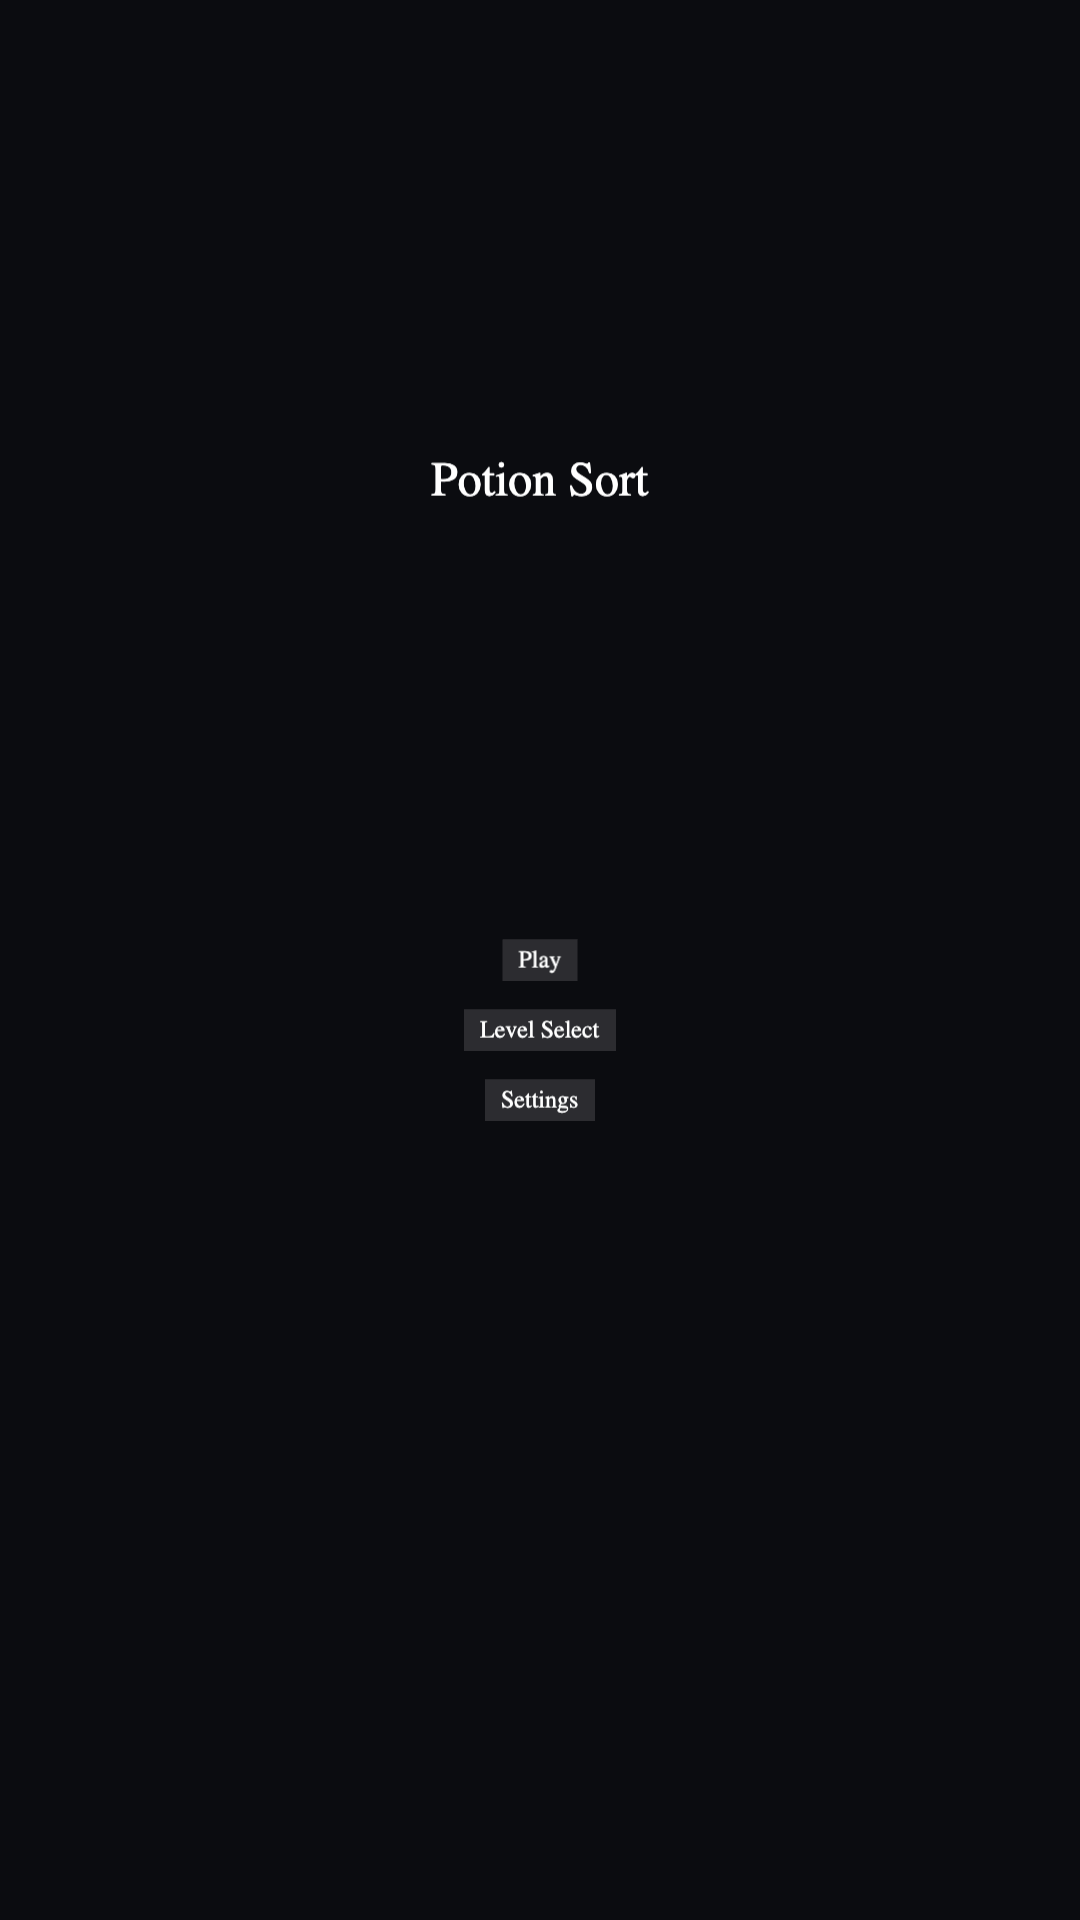
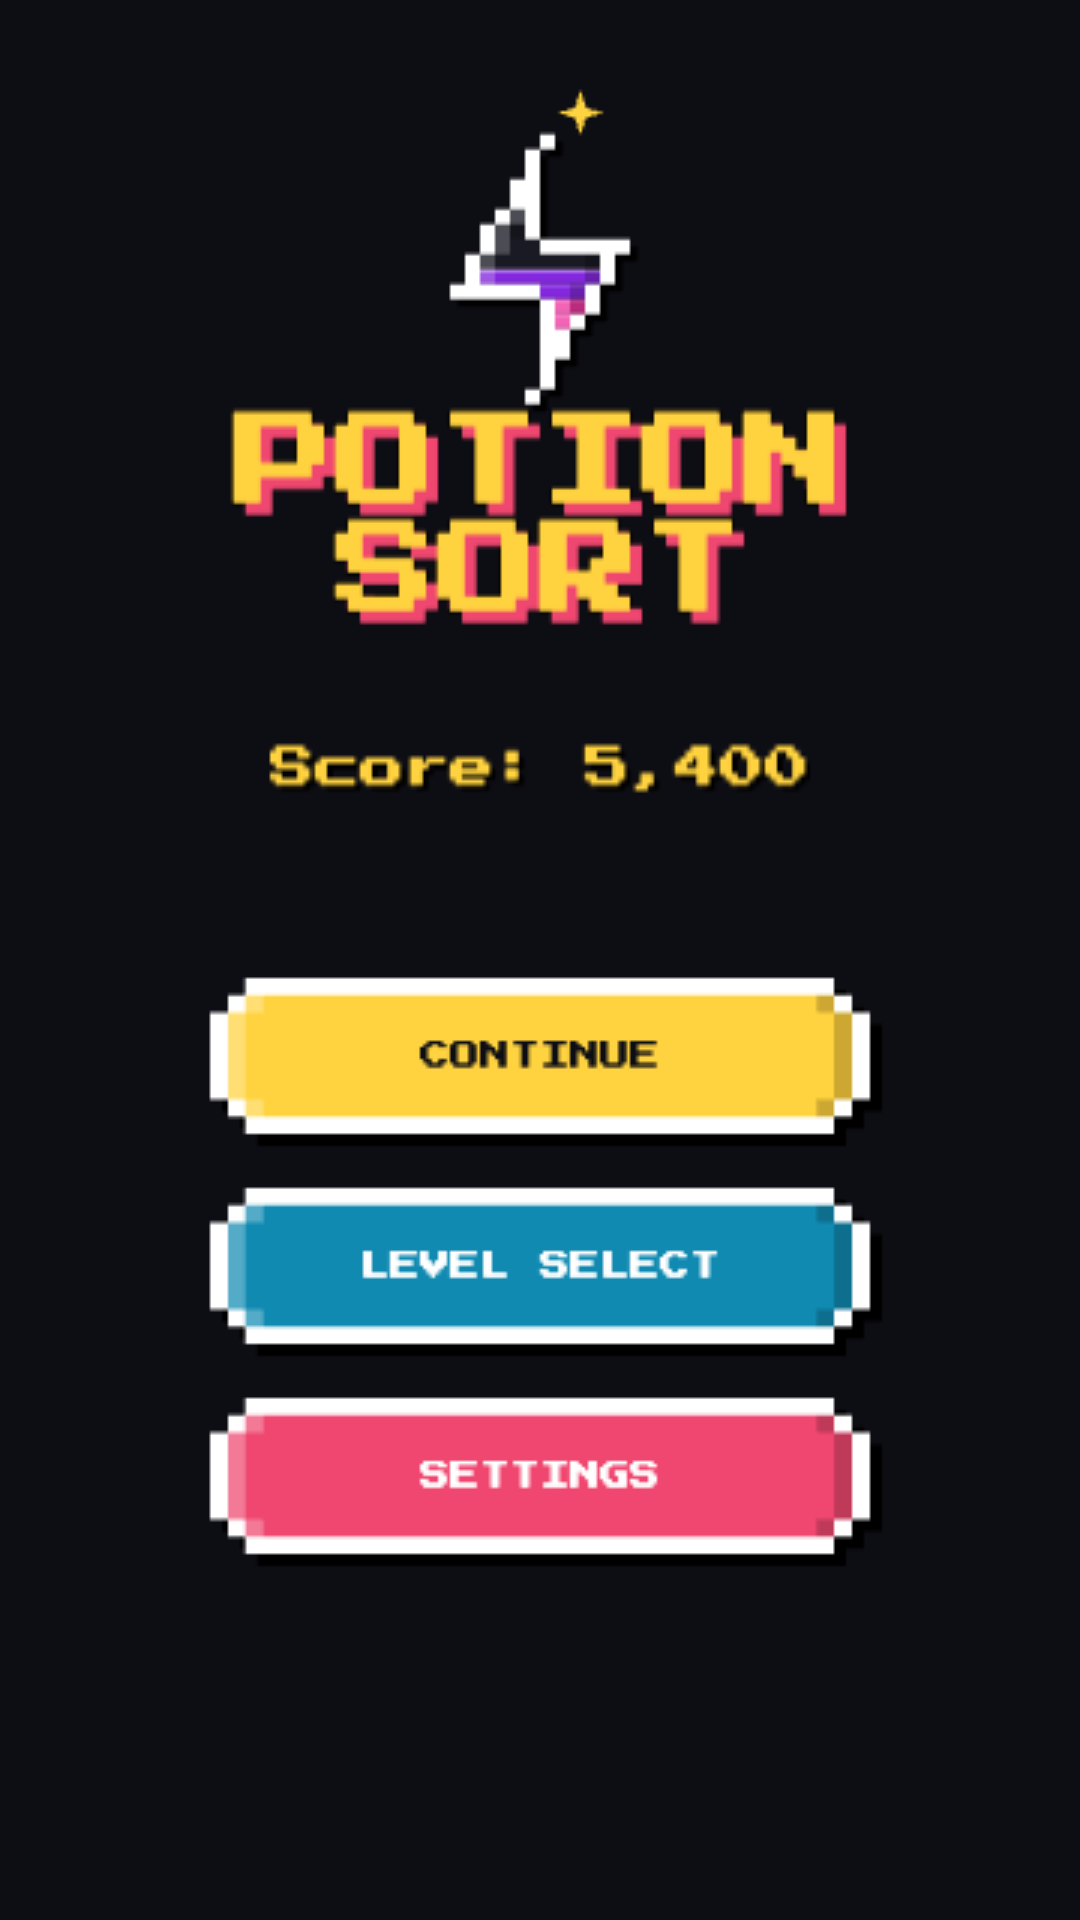
Recapture Play Store screenshots against current UI
The committed set predated almost all of this session's work (icon
buttons, HARD/ICE/LOCK badges, onboarding tooltips, settings popup,
score, endless mode) and the checklist already flagged them as
placeholder-only.

Recaptured all 6 at 1080x1920 from the actual running game via
Playwright (360x640 viewport, 3x device scale):
- Menu: now shows the lifetime score and "Continue".
- Level select: a page chosen to show hard/frozen/locked badges and
  star ratings together, not just one at a time.
- Mid-pour, flask-complete, win: used a real solver-computed move
  sequence (same throwaway-test pattern as the win-screen
  verification in project_scoring_and_retention) replayed as actual
  taps, timed to land inside the pour tween / sparkle burst / confetti
  window respectively - not staged mockups. Had to account for
  display-order reshuffling after each seal (flasks move to the
  front of the grid once solved) to keep tapping the right on-screen
  position for moves 11-12.

diff --git a/store/screenshots-checklist.md b/store/screenshots-checklist.md
@@ -7,31 +7,38 @@ reflects this repo as of Milestone 8.
 | --- | --- | --- | --- |
 | App icon | 512×512 PNG, 32-bit with alpha, ≤1024 KB | Required | ⬜ Not made — `assets/icon.png` is the in-app adaptive icon source (1024×1024), not yet resized/exported for the Play Store listing field |
 | Feature graphic | 1024×500, JPEG or 24-bit PNG, no alpha | Required | ⬜ Not made |
-| Phone screenshots | 2–8 images, JPEG or 24-bit PNG, no alpha, min 320px / max 3840px per side (max ≤ 2× min); 1080×1920 portrait recommended | Required | 🟡 Placeholder set captured (see below), **not final** |
+| Phone screenshots | 2–8 images, JPEG or 24-bit PNG, no alpha, min 320px / max 3840px per side (max ≤ 2× min); 1080×1920 portrait recommended | Required | ✅ Done — current UI, see below |
 | Tablet screenshots | Same format rules, min 4 recommended | Optional | ⬜ Not made — worth adding since the layout already scales to tablets per `CLAUDE.md` |
 | Android TV banner | 1280×720 | Only if targeting TV | N/A — not targeting TV |
 | Wear OS screenshot | 384×384, 1:1 | Only if targeting Wear OS | N/A — not targeting Wear OS |
 
-## Placeholder screenshots
+## Current screenshots
 
-A first pass of real in-game screenshots (not staged mockups) was captured at 1080×1920 from the
-actual running game: title/menu, level select, mid-pour gameplay, and the win celebration. These
-prove the pipeline works end-to-end but **should be recaptured after the planned UI/icon polish
-pass** (see memory note from Milestone 4/6) — current buttons and icons are functional
-placeholders, not final art.
+`store/screenshots/01-menu.png` through `06-settings.png`, captured 2026-10-09 at 1080×1920 from
+the actual running game (not staged mockups) via Playwright, after the icon/badge/tooltip/score/
+endless-mode UI work:
 
-## How to recapture screenshots later
+1. Menu — score + "Continue" visible, populated progress state.
+2. Level select — a 20-cell page showing hard/frozen/locked badges and star ratings together.
+3. Mid-pour — a flask tilted mid-animation with a liquid cube in flight and the landing splash
+   visible on the target, captured by replaying a real solver-computed move sequence and timing
+   the shot inside the pour tween.
+4. Flask-complete — a freshly-sealed flask (cork + sparkle burst still fading).
+5. Win — full confetti celebration, 3 stars, "12 moves - par 12".
+6. Settings — the in-level popup (Sound/Haptics/Restart/Close).
+
+Recapture if the UI changes meaningfully again (another visual pass, new HUD elements, etc.).
+
+## How to recapture screenshots
 
 The game runs the same way in a desktop browser as on device (`npm run dev`), so screenshots can
-be captured with any browser's device-emulation mode at 1080×1920, or from an actual device/
-emulator running the APK. Suggested shots once UI is finalized:
-
-1. Menu screen
-2. Level select
-3. Mid-pour gameplay (shows the juice/animation)
-4. A flask-complete sparkle moment
-5. Level-complete / win celebration
-6. Settings screen
+be captured with any browser's device-emulation mode at 1080×1920 (viewport 360×640 at
+deviceScaleFactor 3 via Playwright gives exactly that), or from an actual device/emulator running
+the APK. For the action shots (mid-pour, flask-complete, win), the most reliable way is to
+generate a real, solver-verified move sequence for a chosen level first (a throwaway
+`tests/_zz_*.test.ts` using `findHintMove()` in a loop, same pattern documented in the
+scoring-and-retention project memory), since display order reshuffles whenever a flask seals -
+replaying taps against stale coordinates silently misses.
 
 ## Feature graphic and icon
 
